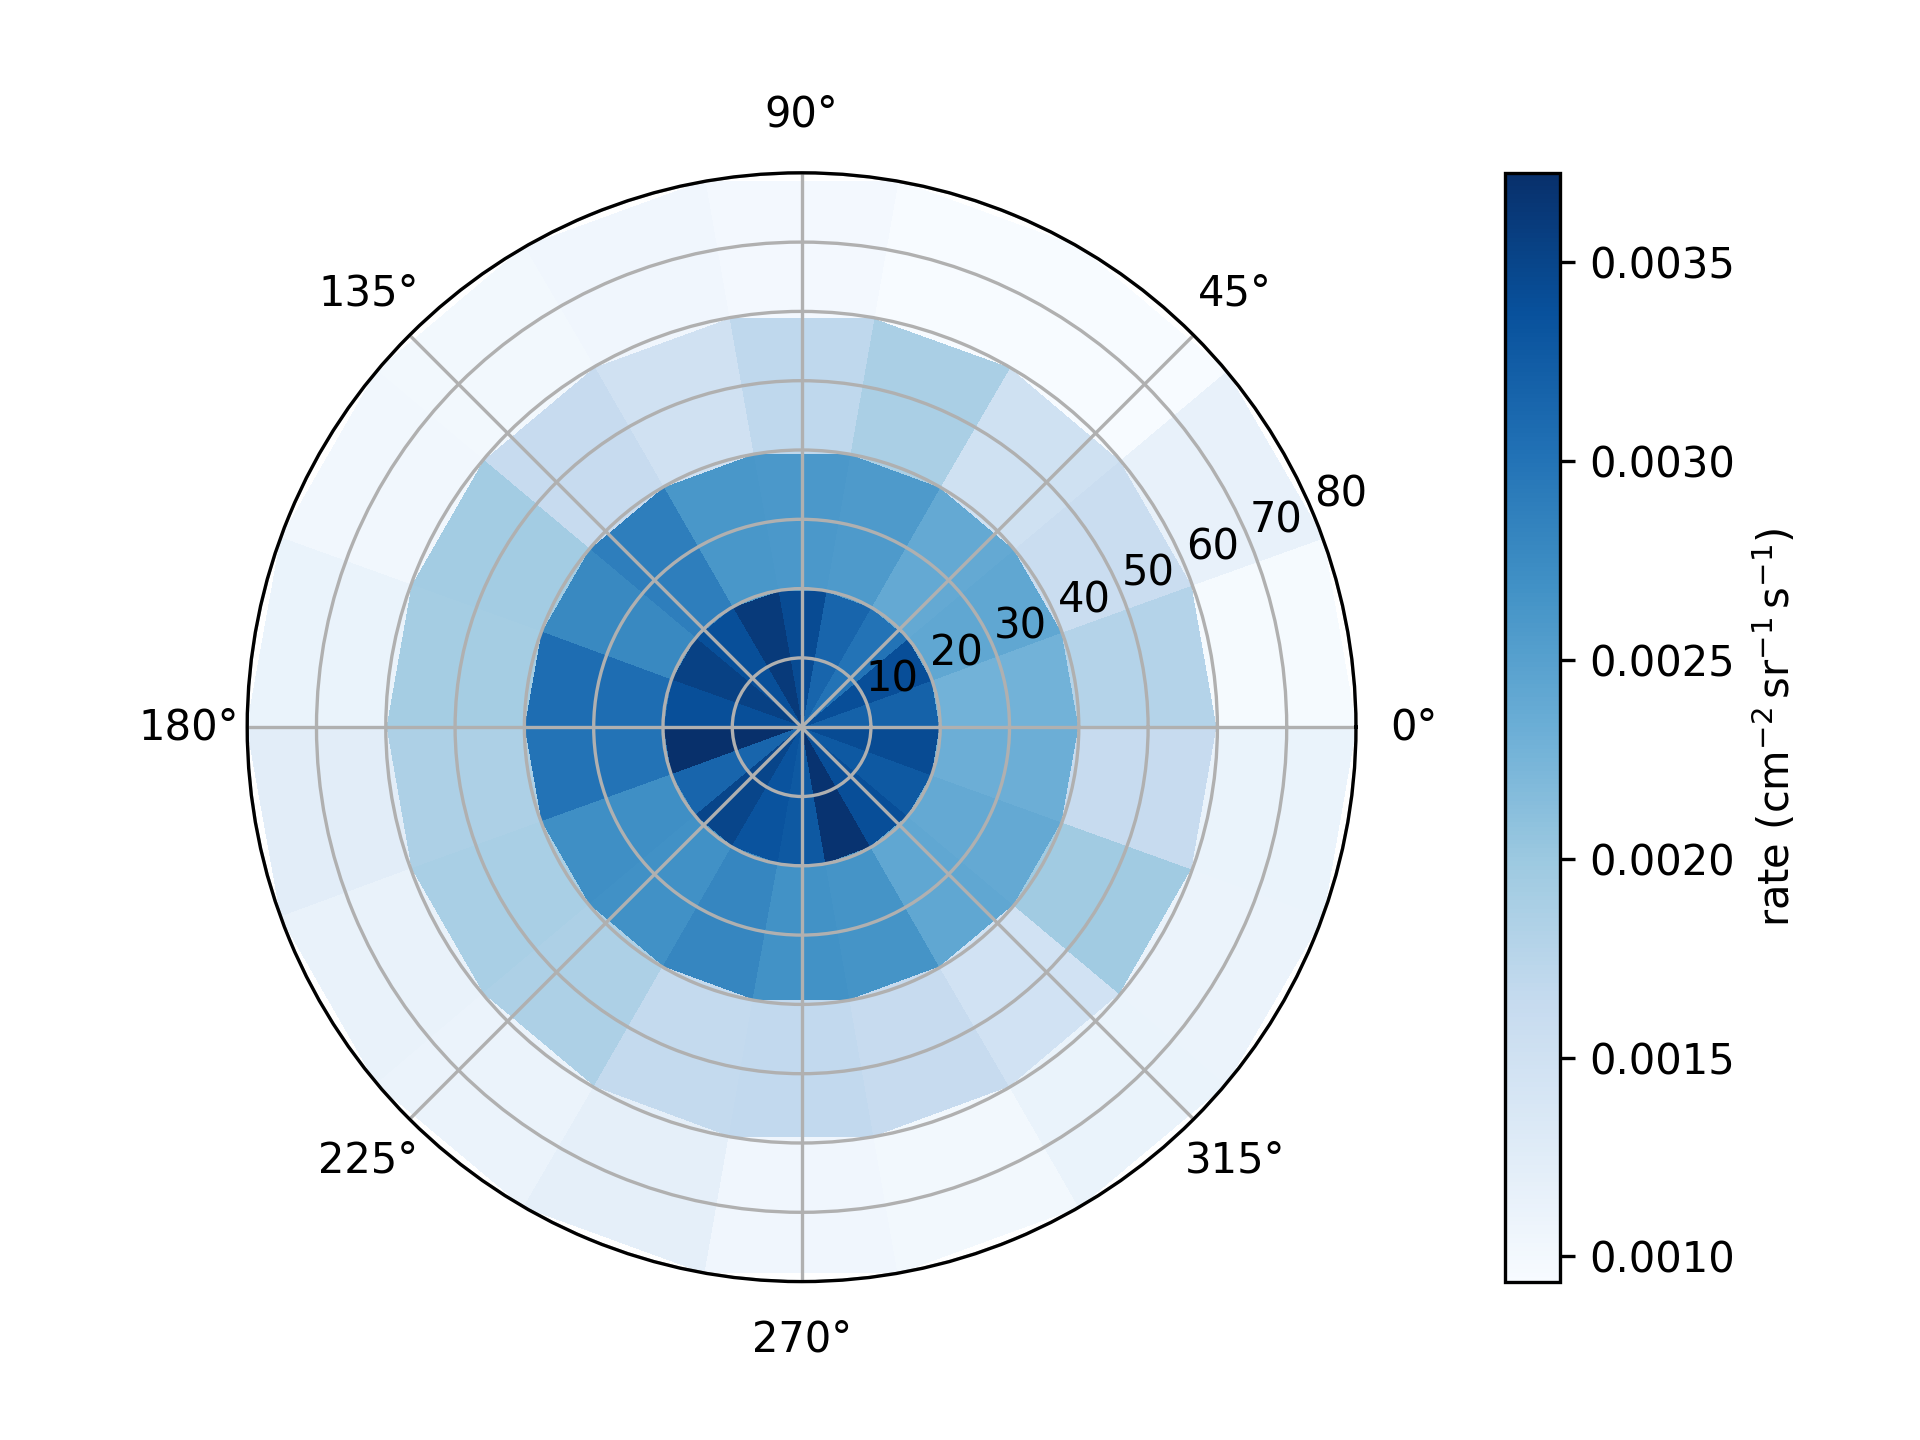
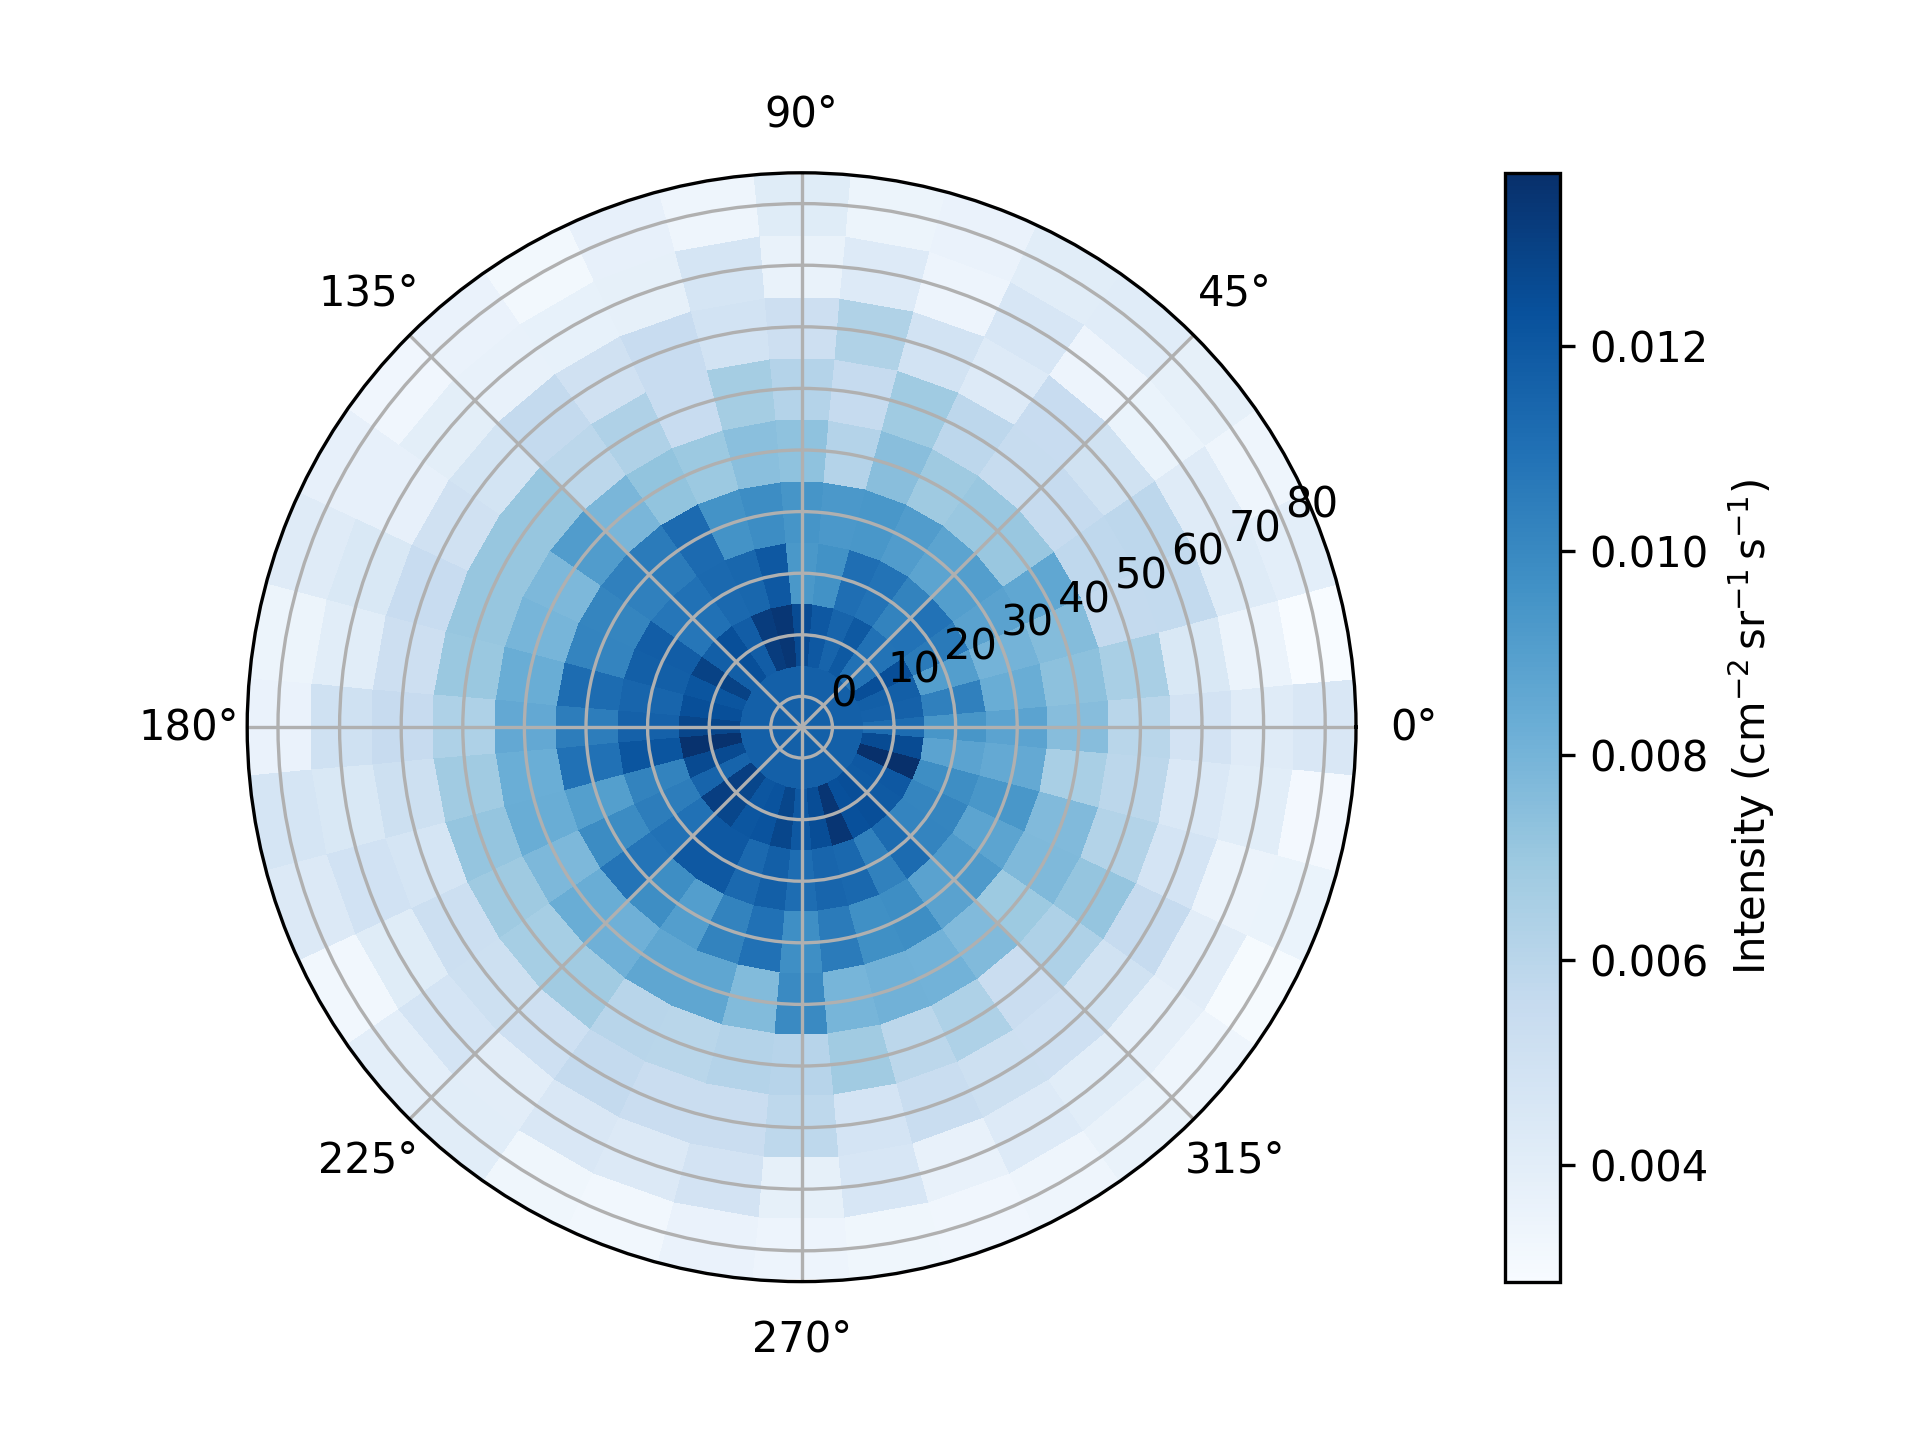
fix wrong geometric factor in README

diff --git a/README.md b/README.md
@@ -121,21 +121,15 @@ theta, phi = np.array(data_dict["theta_deg"]), np.array(d["phi_deg"])
 n_trigs = np.array(data_dict["n_triggers"])
 t_meas = np.array(d["t_elapsed_s"])
 ```
-Typically, the muon flux is reported in units of cm⁻²s⁻¹sr⁻¹. The active solid angle (in sr) of the telescope is given by the pyramid which is defined by connecting the corners of the outermost panels that are active. Let $d$ be the distance between those panels and $a=20\,$cm the side length of the scintillator panels. Then [[1]](https://en.wikipedia.org/wiki/Solid_angle#Pyramid)
+Typically, the muon intensity is reported in units of cm⁻²s⁻¹sr⁻¹. For that, the measured rate has to be divided by the so-called *geometric factor* $G$. Let $d$ be the distance between the outermost panels and $a=20$ cm the side length of the scintillator panels. Then $G\approx a^4/d^2$ if $d$ is much larger than $a$ [[1]](https://iopscience.iop.org/article/10.1088/0022-3735/5/3/024).
 
-$$\Omega=4\,\arctan\frac{a^2}{d\sqrt{d^2+2a^2}}.$$
-
-For $d=197\,$cm, this gives $\Omega=0.04\,$sr. For $d=64.5\,$cm, we get $\Omega=0.35\,$sr. Double check which panels were active and what their distance was in your measurement. The flux is then normalized as follows:
+For $d=197$ cm, we find $G=4.1$ cm²sr. For $d=64.5$ cm, we get $G=38.5$ cm²sr. Double check which panels were active and what their distance is in your measurement. The intensity is then normalized as follows:
 ```python
-def solid_angle(d_cm: float, a_cm: float = 20.):
-    return 4*np.arctan(a_cm**2 /(d_cm * np.sqrt(d_cm**2+2*a_cm**2)))
-
 panel_distance = 197 # cm
 panel_side_length = 20 # cm
-omega = omega = solid_angle(panel_distance) # sr
-panel_area = panel_side_length**2 # cm^2
+G = panel_side_length**4 / panel_distance**2 # cm^2 sr
 
-rate_trigs = n_trigs/t_meas/omega/panel_area # 1/(cm^2 s sr)
+rate_trigs = n_trigs/t_meas/G # 1/(cm^2 s sr)
 ```
 It might also be useful to arrange the results in a $(\theta,\phi)$-grid:
 ```python
@@ -150,7 +144,7 @@ for t, p, r in zip(theta, phi, rate_trigs):
     j = phi_grid == p
     rates[i*j] = r
 ```
-Now, `theta_grid` and `phi_grid` are meshgrids and `rates` is the corresponding 2D array of flux values. We can plot them in a polar plot:
+Now, `theta_grid` and `phi_grid` are meshgrids and `rates` is the corresponding 2D array of intensity values. We can plot them in a polar plot:
 ```python
 fig, ax = plt.subplots(1, 1, subplot_kw=dict(projection="polar"))
 pcm = ax.pcolormesh(
@@ -160,7 +154,7 @@ pcm = ax.pcolormesh(
     shading="nearest",
     cmap="Blues",
 )
-fig.colorbar(pcm, orientation='vertical', pad=0.1, label="flux (cm$^{-2}\,$sr$^{-1}\,$s$^{-1}$)")
+fig.colorbar(pcm, orientation='vertical', pad=0.1, label="Intensity (cm$^{-2}\,$sr$^{-1}\,$s$^{-1}$)")
 ```
 ![](doc/img/example_output.png)
 
